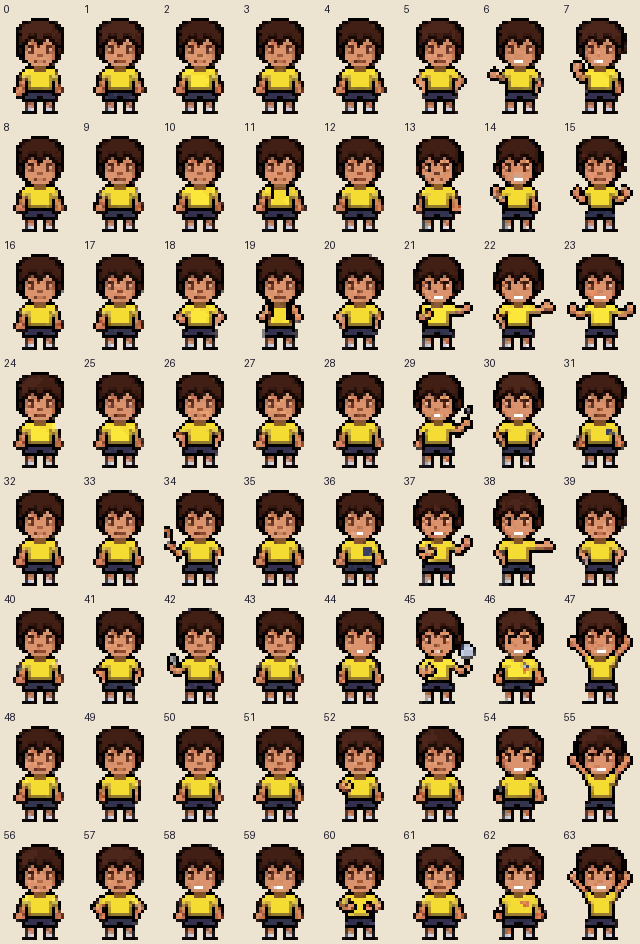
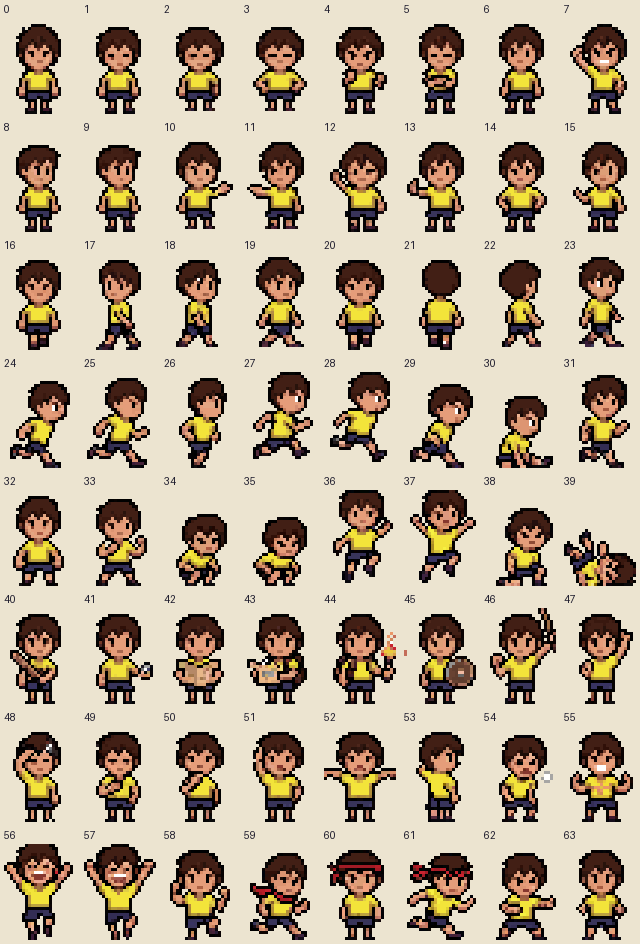
마지막 영웅 장면 일러스트 적용 + 아트 일관성 마무리
- 엔딩별 배경 일러스트 3장, 큰 영웅 6종(남자아이·여자아이), 무릎 꿇은 블랙아웃
- 성장 연출 후광을 둥근 빛으로 수정
- 남자아이 생각·단호 표정 재생성 후 기본 모습과 크기 맞는 변형 선택
- 교체 아트 48/51 등록

Claude-Session: https://claude.ai/code/session_01HUUqL8HGhcjcrTPnzPKGn3

diff --git a/src/game/scenes.ts b/src/game/scenes.ts
@@ -195,11 +195,13 @@ export class RoomScene extends Phaser.Scene {
     const hero = this.child;
     hero.setAlpha(0);
     const kid = this.add.image(76, 124, heroSprite('child-neutral', s.settings.appearance)).setOrigin(0.5, 1);
-    const glow = this.add.image(76, 108, 'dot').setTint(C('w')).setScale(1).setAlpha(0).setBlendMode(Phaser.BlendModes.ADD);
+    // 겹친 원으로 만든 둥근 후광 (가운데가 더 밝다)
+    const glow = this.add.container(76, 106).setAlpha(0).setScale(0.2);
+    [[40, 0.25], [28, 0.4], [16, 0.7]].forEach(([r, a]) => glow.add(this.add.circle(0, 0, r!, C('y'), a!).setBlendMode(Phaser.BlendModes.ADD)));
     const flash = this.add.rectangle(0, 0, 192, 128, C('w')).setOrigin(0).setAlpha(0);
     this.tweens.chain({
       tweens: [
-        { targets: glow, alpha: 0.9, scale: 14, duration: 700, ease: 'Quad.easeIn' },
+        { targets: glow, alpha: 1, scale: 1.2, duration: 700, ease: 'Quad.easeIn' },
         { targets: flash, alpha: 1, duration: 160, onComplete: () => { kid.destroy(); hero.setAlpha(1).setScale(0.7); } },
         { targets: [flash, glow], alpha: 0, duration: 520, ease: 'Quad.easeOut' },
         { targets: hero, scale: 1, duration: 420, ease: 'Back.easeOut' },

diff --git a/README.md b/README.md
@@ -100,10 +100,11 @@ public/assets  아이콘(SVG)
 3. `npm run art:manifest`를 실행하면 크기를 검사해 `manifest.json`을 만들고, 빠지거나 제외된 파일을 알려 줍니다.
 4. 커밋해 `main`에 푸시하면 자동 배포됩니다.
 
-현재 38개 슬롯이 PixelLab으로 만든 그림입니다(바닥·벽·출구 타일 3개는 기본 도트 유지). 생성은 `scripts/pixellab_generate.py`로 했습니다.
+현재 51개 슬롯 중 48개가 PixelLab으로 만든 그림입니다(바닥·벽·출구 타일 3개는 기본 도트 유지). 마지막 영웅 장면은 엔딩별 배경 일러스트(192×128) 3장, 크게 그린 영웅(64×96) 6종, 항복한 블랙아웃으로 구성되며, 엔딩별 분위기 연출(빛줄기·비·탐조등)과 아이가 빛에 감싸여 어른이 되는 성장 연출이 붙습니다. 생성은 `scripts/pixellab_generate.py`로 했습니다.
 - `python3 scripts/pixellab_generate.py gen <슬롯…>`: PixelLab `generate-image-v2`(백그라운드 작업)로 슬롯당 변형 64장(성인은 36장)을 만들고, 구독 생성 횟수 10회를 씁니다.
 - 변형 비교 시트는 `art-src/sheets/`, 고른 번호는 `art-src/picks.json`에 있습니다. `pick 슬롯=번호`로 바꿀 수 있습니다.
 - 그림체는 `art-src/style.png`(잔해 7번)를 스타일 참고로, 하람의 표정·방향·성인 모습은 고른 기본 모습을 캐릭터 참고로 맞췄습니다. 미니게임 왼쪽 방향은 오른쪽 그림을 좌우 반전했습니다.
+- 일관성: 표정·방향 스프라이트는 기본 모습과 크기·발 위치·피부색이 가까운 변형을 고르고, 선택 시 발 위치와 가로 중심을 기본 모습에 맞춰 자동 정렬하며, 생성 격자 경계에서 넘어온 작은 조각을 지웁니다.
 - 인증은 `PIXELLAB_API_KEY` 환경 변수(Bearer) 또는 Claude 클라우드 환경의 네트워크 시크릿을 씁니다.
 
 ## 규칙 요약
